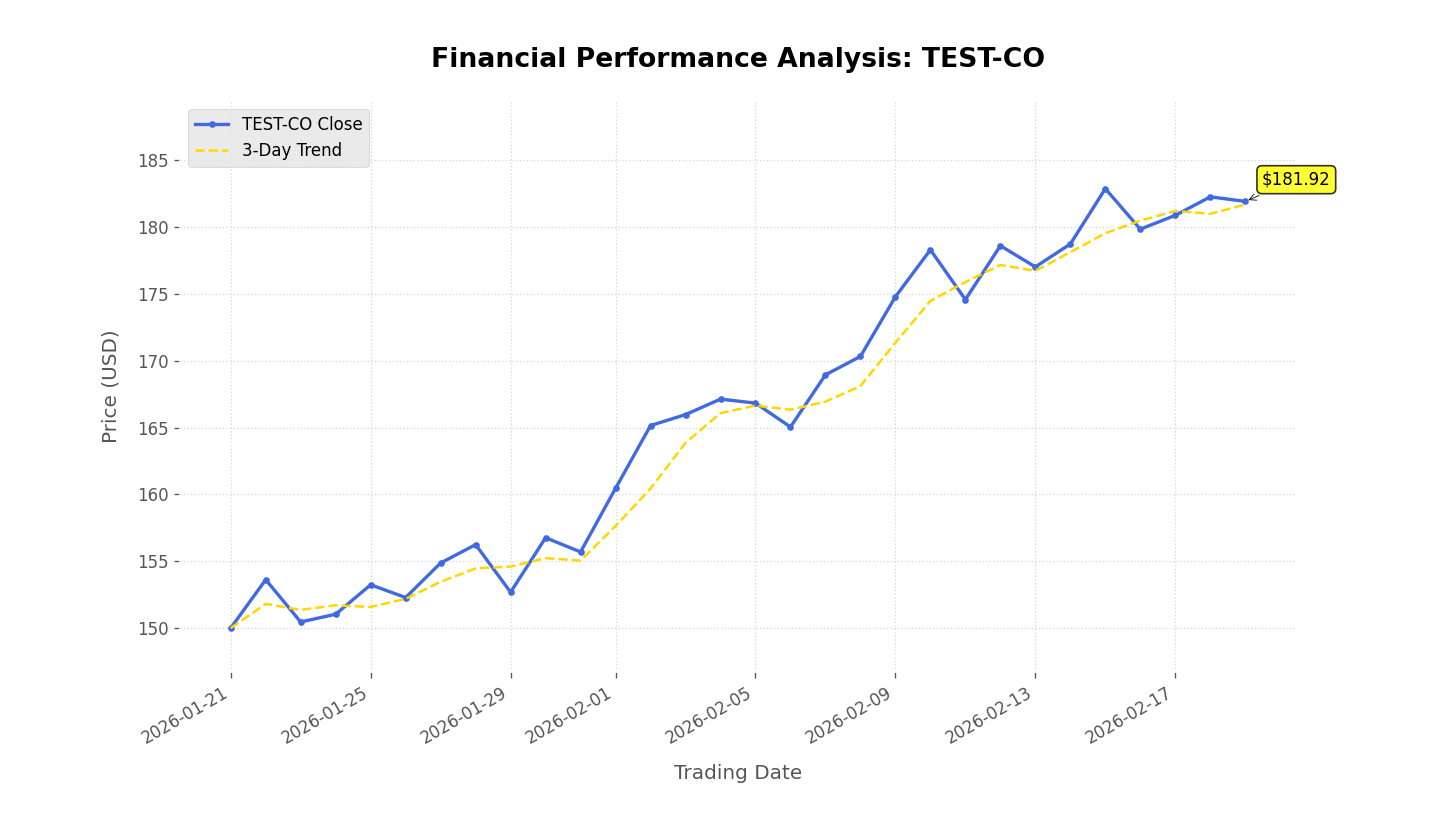
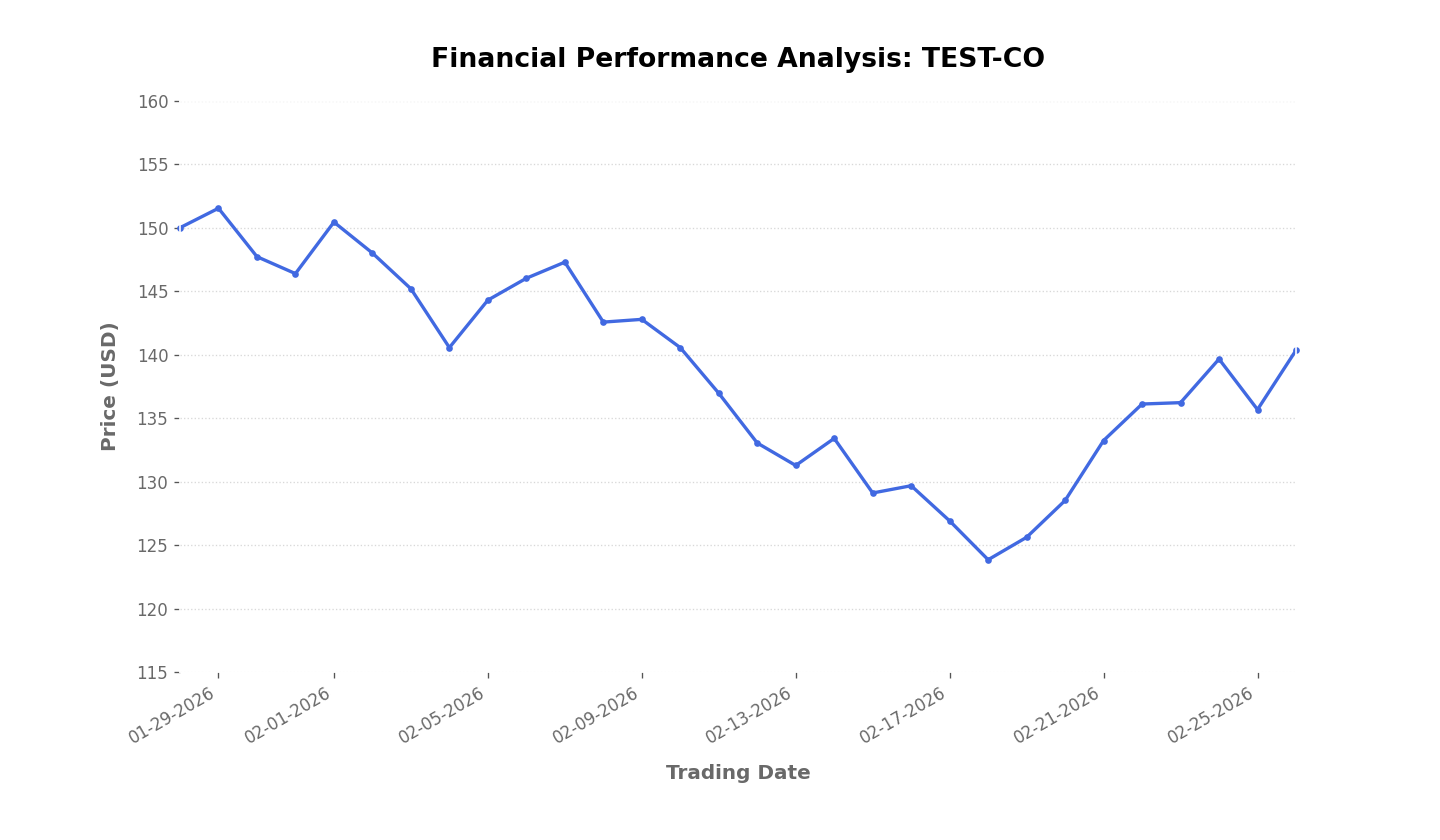
changed date format to MM-DD-YYYY

diff --git a/src/backend/mcp_servers/mcp_chart_generation/server.py b/src/backend/mcp_servers/mcp_chart_generation/server.py
@@ -7,6 +7,8 @@ import matplotlib
 # CRITICAL: Set the backend to "Agg" before importing pyplot.
 # This prevents the server from trying to open a GUI window, which would crash it.
 matplotlib.use("Agg")
+from matplotlib import dates
+import matplotlib.ticker as ticker
 import matplotlib.pyplot as plt
 import io
 from datetime import datetime
@@ -15,7 +17,7 @@ from fastmcp.utilities.types import Image
 import random
 
 COLORS = ["red", "limegreen", "royalblue"]
-GRIDLINE_INTERVAL = 5
+GRIDLINE_INTERVAL = 30
 
 # Initialize the server
 mcp = FastMCP("chart_generation")
@@ -33,21 +35,22 @@ def _build_base_chart(
     """
     fig, ax = plt.subplots(figsize=(12, 7))
 
-    ax.plot(dt_dates, prices, color=color, marker=".", linewidth=2, label=f"{symbol} Close")
+    ax.plot(dt_dates, prices, color=color, marker=".", linewidth=2, label=f"{symbol} Close", clip_on=False)
 
     min_price = min(prices)
     max_price = max(prices)
     price_range = max_price - min_price
-    y_min = math.floor((min_price - price_range * 0.5) / GRIDLINE_INTERVAL) * GRIDLINE_INTERVAL # calculates the minimum y of the graph and makes it land on a grid interval
+    y_min = math.floor((min_price - price_range * 0.3) / GRIDLINE_INTERVAL) * GRIDLINE_INTERVAL # calculates the minimum y of the graph and makes it land on a grid interval
     y_max = math.ceil((max_price + price_range * 0.2) / GRIDLINE_INTERVAL) * GRIDLINE_INTERVAL # calculates the maximum y of the graph and makes it land on a grid interval
     ax.set_ylim(y_min, y_max)
-    ax.set_xlim(dt_dates[0], dt_dates[-1]) # sets the first point to be on the y-axis
+    ax.set_xlim(dt_dates[0], dt_dates[-1])
 
     ax.set_facecolor("white")
     fig.patch.set_alpha(0.0)
     ax.set_title(f"Financial Performance Analysis: {symbol}", fontsize=16, fontweight="bold", pad=20)
     ax.set_ylabel("Price (USD)", fontsize=12, labelpad=10, fontweight="bold", color=text_color)
     ax.set_xlabel("Trading Date", fontsize=12, labelpad=10, fontweight="bold", color=text_color)
+    ax.xaxis.set_major_formatter(dates.DateFormatter("%m-%d-%Y"))  # e.g. "01-01-2024"
     ax.tick_params(axis="both", labelcolor=text_color)
     ax.yaxis.grid(True, which="both", linestyle=":", alpha=0.75, color="#cccccc")
     fig.autofmt_xdate()
@@ -126,148 +129,6 @@ def generate_line_chart(
             ax.legend(loc=legend_loc)
 
         return _render_chart_to_image(fig)
-    
-# -------------------------------OLD TOOLS-------------------------------
-# # @mcp.tool() # comment out for manual testing
-# def generate_financial_line_chart(dates: list[str], prices: list[float], symbol: str = "STOCK", text_color: str = "dimgrey") -> Image:
-#     """
-#     Generates a detailed financial line chart with a moving average and trend indicators.
-#     """
-#     # Validation: Ensure data lengths match
-#     if len(dates) != len(prices):
-#         raise ValueError(f"Data mismatch: Received {len(dates)} dates and {len(prices)} prices.")
-
-#     if not dates:
-#         raise ValueError("Data empty: No dates or prices provided.")
-
-#     # Format dates
-#     # Convert strings to datetime objects allows Matplotlib to handle axis formatting smartly.
-#     try:
-#         # Assuming dates are in ISO format (YYYY-MM-DD)
-#         dt_dates = [datetime.fromisoformat(d) for d in dates] 
-#     except ValueError:
-#         # Fallback if standard parsing fails
-#         dt_dates = dates 
-
-#     # Calculate SMA (Simple Moving Average)
-#     sma = [sum(prices[max(0, i-2):i+1]) / len(prices[max(0, i-2):i+1]) for i in range(len(prices))]
-
-#     # Setup plot
-#     # Context manager ensures styles don"t leak to other threads
-#     with plt.style.context("ggplot"):
-#         fig, ax = plt.subplots(figsize=(12, 7))
-        
-#         # Plot the Line Graph
-#         ax.plot(dt_dates, prices, color=random.choice(COLORS), marker=".", linewidth=2, label=f"{symbol} Close")
-
-#         # Add padding on vertical axis so that legend never covers the graph
-#         min_prices = min(prices)
-#         max_prices = max(prices)
-#         price_range = max_prices - min_prices
-#         ax.set_ylim(min_prices - price_range * 0.5, max_prices + price_range * 0.2) # padding for bottom and padding for legend at top
-        
-#         # Add the Trend Line
-#         ax.plot(dt_dates, sma, color="gold", linestyle="--", linewidth=1.5, label="3-Day Trend")
-
-#         # Highlight the Latest Price
-#         latest_price = prices[-1]
-#         latest_date = dt_dates[-1]
-        
-#         # Note: "dates[-1]" used in annotation needs to match the axis type (dt_dates)
-#         ax.annotate(f"${latest_price:.2f}", 
-#                     xy=(latest_date, latest_price), 
-#                     xytext=(10, 10), 
-#                     textcoords="offset points",
-#                     arrowprops=dict(arrowstyle="->", color="black"),
-#                     bbox=dict(boxstyle="round,pad=0.3", fc="yellow", ec="black", lw=1, alpha=0.8),
-#                     color="black")
-
-#         # Formatting
-#         ax.set_facecolor("white") # set chart background
-#         fig.patch.set_alpha(0.0) # set transparent figure background
-#         ax.set_title(f"Financial Performance Analysis: {symbol}", fontsize=16, fontweight="bold", pad=20)
-#         ax.set_ylabel("Price (USD)", fontsize=12, labelpad=10, fontweight="bold", color=text_color)
-#         ax.set_xlabel("Trading Date", fontsize=12, labelpad=10, fontweight="bold", color=text_color)
-#         ax.tick_params(axis='both', labelcolor=text_color)
-#         if prices[-1] >= prices[0]: # determine legend placement
-#             ax.legend(loc="upper left")
-#         else:
-#             ax.legend(loc="upper right")
-#         ax.yaxis.set_minor_locator(MultipleLocator(5)) # minor gridline every 5 units
-#         ax.yaxis.grid(True, which="both", linestyle=":", alpha=0.75, color="#cccccc") # set horizontal grid style and color
-        
-#         # Auto-format date tick labels (rotates and skips labels to fit)
-#         fig.autofmt_xdate()
-
-#         # Save to Buffer
-#         buffer = io.BytesIO()
-#         plt.savefig(buffer, format="png", dpi=120)
-#         buffer.seek(0)
-#         image_bytes = buffer.getvalue()
-        
-#         # Explicitly close the figure to free memory
-#         plt.close(fig)
-
-#     return Image(data=image_bytes, format="png")
-
-# # @mcp.tool() # comment out for manual testing
-# def generate_basic_line_chart(dates: list[str], prices: list[float], symbol: str = "STOCK", text_color: str = "dimgrey") -> Image:
-#     """
-#     Generates a basic line chart to represent financial data.
-#     """
-#     # Validation: Ensure data lengths match
-#     if len(dates) != len(prices):
-#         raise ValueError(f"Data mismatch: Received {len(dates)} dates and {len(prices)} prices.")
-
-#     if not dates:
-#         raise ValueError("Data empty: No dates or prices provided.")
-
-#     # Format dates
-#     # Convert strings to datetime objects allows Matplotlib to handle axis formatting smartly.
-#     try:
-#         # Assuming dates are in ISO format (YYYY-MM-DD)
-#         dt_dates = [datetime.fromisoformat(d) for d in dates] 
-#     except ValueError:
-#         # Fallback if standard parsing fails
-#         dt_dates = dates 
-
-#     # Setup plot
-#     # Context manager ensures styles don"t leak to other threads
-#     with plt.style.context("ggplot"):
-#         fig, ax = plt.subplots(figsize=(12, 7))
-        
-#         # Plot the Line Graph
-#         ax.plot(dt_dates, prices, color=COLOR, marker=".", linewidth=2)
-
-#         # Add padding on vertical axis so that legend never covers the graph
-#         min_prices = min(prices)
-#         max_prices = max(prices)
-#         price_range = max_prices - min_prices
-#         ax.set_ylim(min_prices - price_range * 0.5, max_prices + price_range * 0.2) # padding for top and bottom
-
-#         # Formatting
-#         ax.set_facecolor("white") # set chart background
-#         fig.patch.set_alpha(0.0) # set transparent figure background
-#         ax.set_title(f"Financial Performance Analysis: {symbol}", fontsize=16, fontweight="bold", pad=20)
-#         ax.set_ylabel("Price (USD)", fontsize=12, labelpad=10, fontweight="bold", color=text_color)
-#         ax.set_xlabel("Trading Date", fontsize=12, labelpad=10, fontweight="bold", color=text_color)
-#         ax.tick_params(axis='both', labelcolor=text_color)
-#         ax.yaxis.set_minor_locator(MultipleLocator(5)) # minor gridline every 5 units
-#         ax.yaxis.grid(True, which="both", linestyle=":", alpha=0.75, color="#cccccc") # set grid style and color
-        
-#         # Auto-format date tick labels (rotates and skips labels to fit)
-#         fig.autofmt_xdate()
-
-#         # Save to Buffer
-#         buffer = io.BytesIO()
-#         plt.savefig(buffer, format="png", dpi=120)
-#         buffer.seek(0)
-#         image_bytes = buffer.getvalue()
-        
-#         # Explicitly close the figure to free memory
-#         plt.close(fig)
-
-#     return Image(data=image_bytes, format="png")
 
 if __name__ == "__main__":
     mcp.run()

diff --git a/src/backend/mcp_servers/mcp_chart_generation/test_server.py b/src/backend/mcp_servers/mcp_chart_generation/test_server.py
@@ -22,6 +22,7 @@ def test_chart_generation(advanced):
     # 2. Call the Tool Directly
     try:
         print("calling chart_generator()...")
+        print("first date actual: " + dates[0])
         image_result = generate_line_chart(dates=dates, prices=prices, symbol="TEST-CO", advanced=advanced)
         
         # 3. Save the output to verify visual correctness
